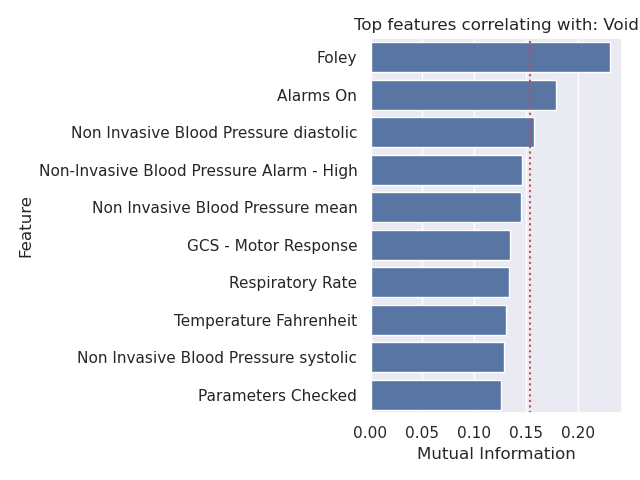
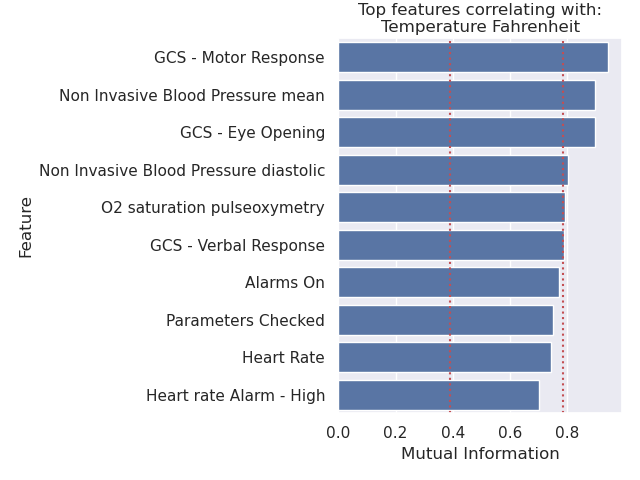
Draw std dev lines on feature correlation plots

Changed region(s): [[0.0938, 0.0, 1.0, 0.9688], [0.9375, 0.0938, 0.9688, 0.1562]]

diff --git a/src/tabsep/reporting/singleFeatureCorrelations.py b/src/tabsep/reporting/singleFeatureCorrelations.py
@@ -41,9 +41,10 @@ if __name__ == "__main__":
     ax = sns.barplot(
         x="Mutual Information", y="Feature", data=topn, orient="h", color="b"
     )
-    ax.set_title(f"Top features correlating with: {feature}")
+    ax.set_title(f"Top features correlating with: {feature}", wrap=True)
 
     plt.axvline(x=mi_std, color="r", linestyle="dotted")
+    plt.axvline(x=mi_std * 2, color="r", linestyle="dotted")
     plt.tight_layout()
     plt.savefig(f"results/correlations.png")
     plt.clf()
